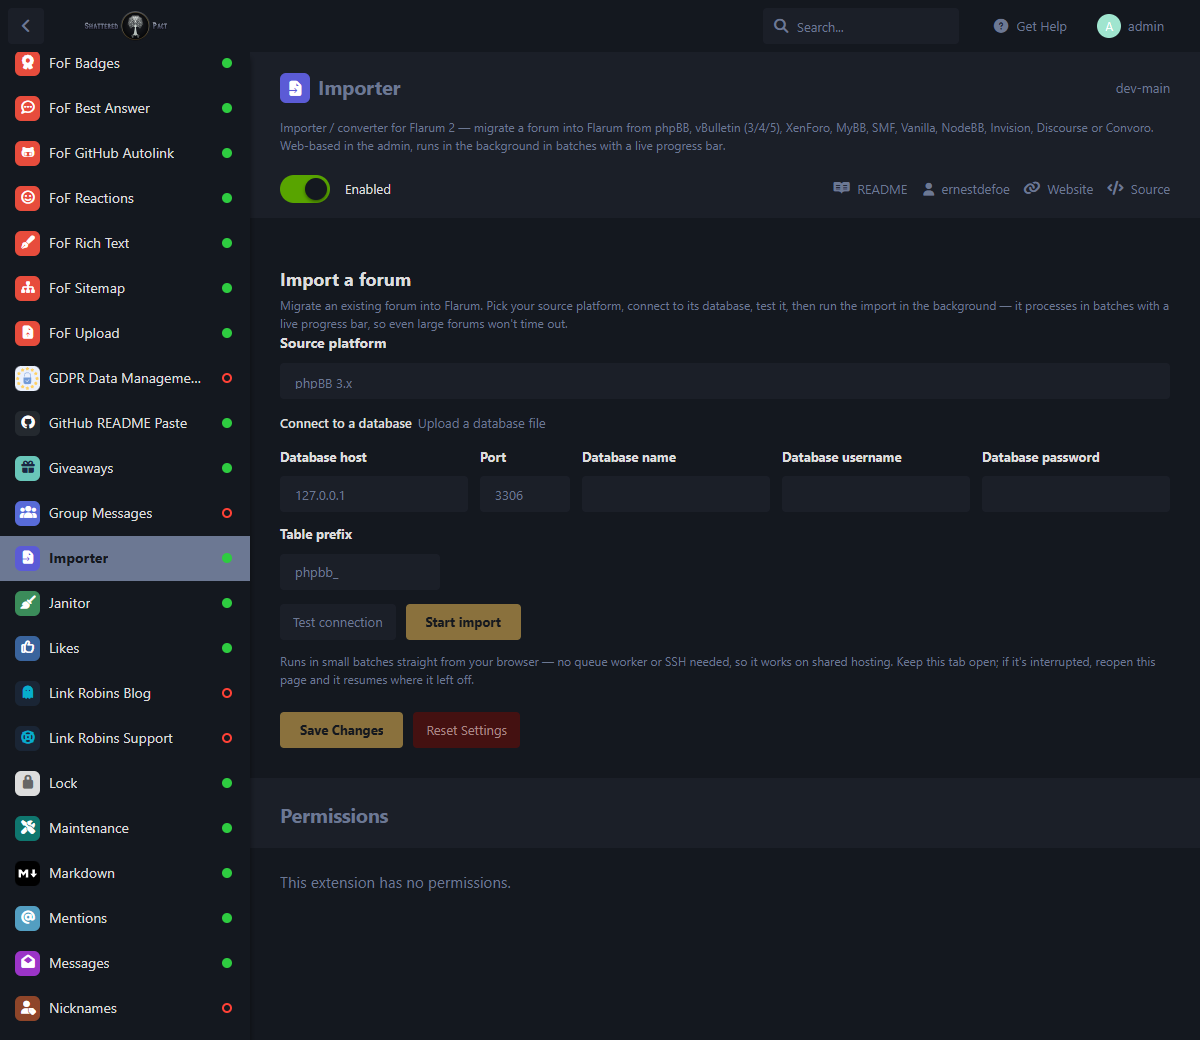
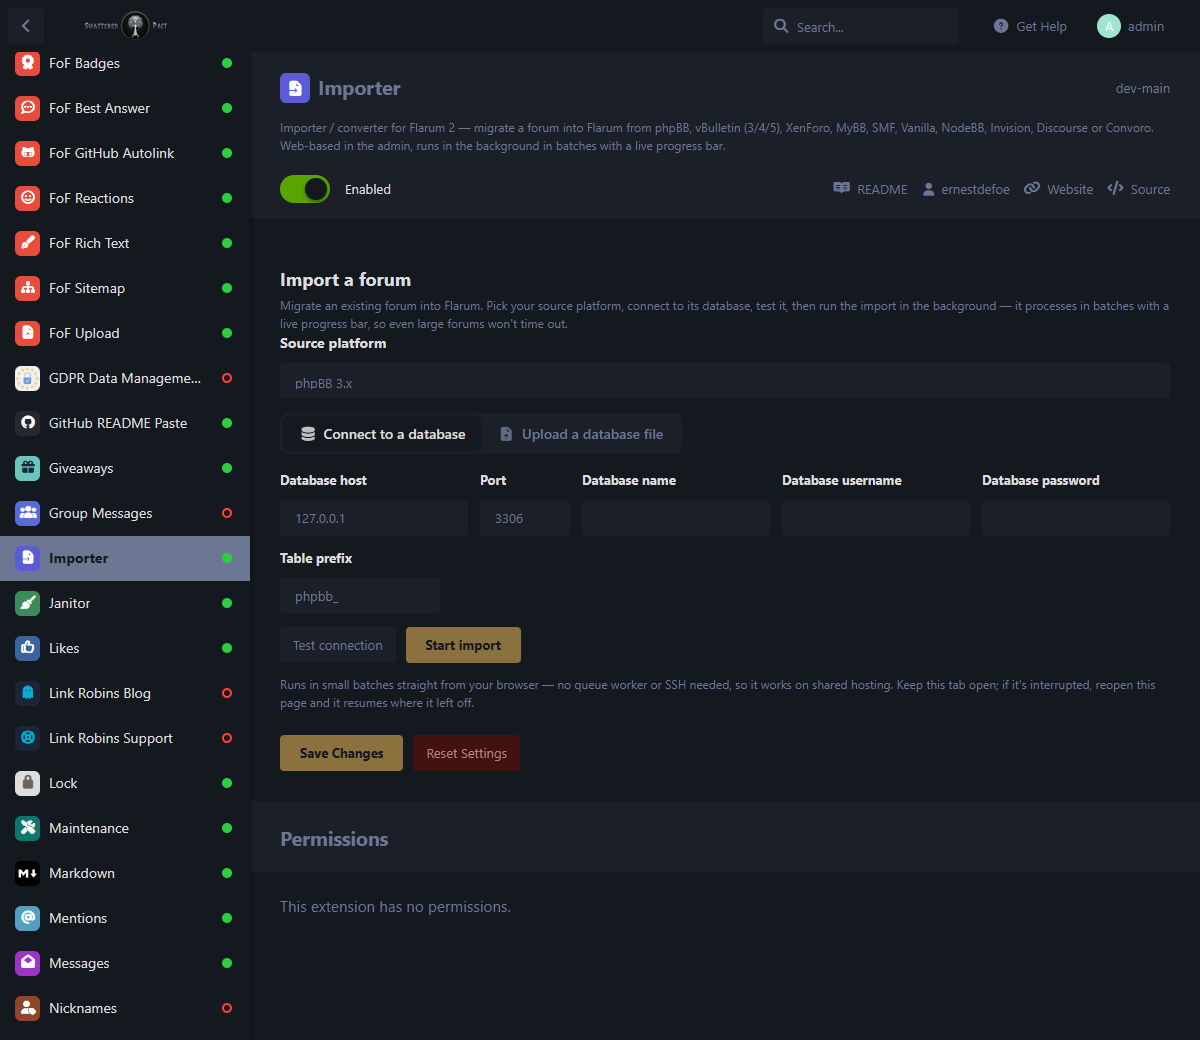
Restyle Connect/Upload mode picker as a segmented toggle
The two modes rendered as plain text links and were easy to miss. Make them
an icon'd segmented pill control (active segment raised) so the dump-upload
option reads as a real choice. Refresh the affected admin screenshots.

diff --git a/less/admin.less b/less/admin.less
@@ -7,14 +7,39 @@
   }
 
   &-modes {
-    display: flex;
-    gap: 6px;
+    display: inline-flex;
+    gap: 0;
     margin: 14px 0 2px;
+    padding: 3px;
+    background: var(--control-bg);
+    border-radius: 8px;
+  }
 
-    button.is-active {
-      background: var(--control-bg);
+  &-mode {
+    appearance: none;
+    border: 0;
+    background: transparent;
+    color: var(--muted-color);
+    font-weight: 600;
+    font-size: 14px;
+    padding: 7px 16px;
+    border-radius: 6px;
+    cursor: pointer;
+    transition: background 0.15s ease, color 0.15s ease, box-shadow 0.15s ease;
+
+    i {
+      margin-right: 7px;
+      opacity: 0.85;
+    }
+
+    &:hover {
       color: var(--text-color);
-      font-weight: 600;
+    }
+
+    &.is-active {
+      background: var(--body-bg);
+      color: var(--text-color);
+      box-shadow: 0 1px 3px rgba(0, 0, 0, 0.18);
     }
   }
 

diff --git a/js/src/admin/components/ImporterPage.tsx b/js/src/admin/components/ImporterPage.tsx
@@ -186,11 +186,11 @@ export default class ImporterPage extends Component {
             ),
           ]),
 
-          // mode tabs (upload is mysqldump-only, so hidden for Redis/PostgreSQL sources)
+          // mode toggle (upload is mysqldump-only, so hidden for Redis/PostgreSQL sources)
           !src.noUpload &&
-            m('.ImporterPage-modes', [
-              m('button', { type: 'button', className: 'Button Button--text' + (this.mode === 'connect' ? ' is-active' : ''), onclick: () => this.setMode('connect') }, t('mode_connect')),
-              m('button', { type: 'button', className: 'Button Button--text' + (this.mode === 'upload' ? ' is-active' : ''), onclick: () => this.setMode('upload') }, t('mode_upload')),
+            m('.ImporterPage-modes', { role: 'tablist' }, [
+              m('button', { type: 'button', role: 'tab', 'aria-selected': this.mode === 'connect', className: 'ImporterPage-mode' + (this.mode === 'connect' ? ' is-active' : ''), onclick: () => this.setMode('connect') }, [m('i.fas.fa-database'), t('mode_connect')]),
+              m('button', { type: 'button', role: 'tab', 'aria-selected': this.mode === 'upload', className: 'ImporterPage-mode' + (this.mode === 'upload' ? ' is-active' : ''), onclick: () => this.setMode('upload') }, [m('i.fas.fa-file-arrow-up'), t('mode_upload')]),
             ]),
 
           this.mode === 'connect'